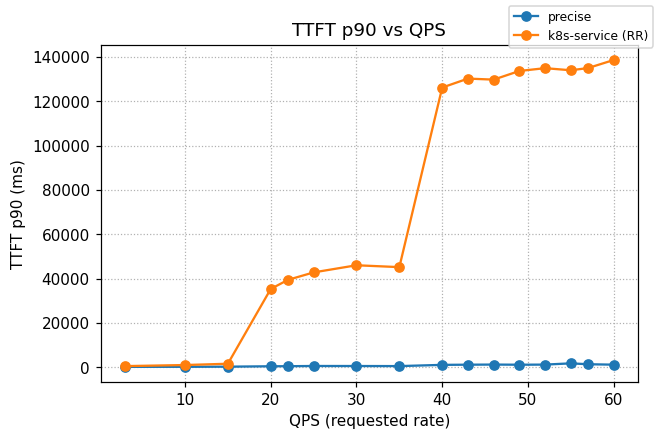
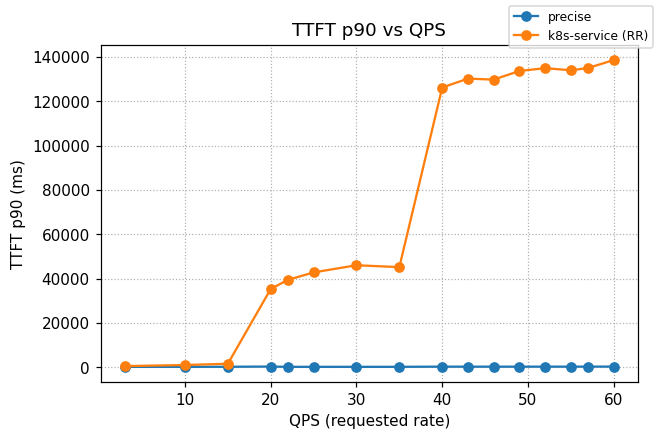
feat(precise-prefix-cache-aware): production-grade standalone defaults + refreshed numbers
Mirror the optimized-baseline guide's data-plane fixes for the precise
standalone deployment:

- Add `inferenceExtension.sidecar.args` (--concurrency 8, --log-level
  warn) and `sidecar.resources` (2-CPU floor, 8-CPU ceiling, 4-16 GiB
  memory) to the values file.
- Extend the existing uds-tokenizer post-renderer to also patch EPP
  container resources (4-CPU req, 8-16 GiB memory) — the chart at
  v1.5.0 doesn't expose EPP resources via values, leaving the
  container in BestEffort QoS without this. Same kustomize overlay,
  one extra patch file. No new helm post-renderer name to install.

Refresh README's benchmark report against a fresh run on the same 16×
H100 fleet using the production defaults. Saturation rate=60: TTFT
mean 0.601s → 0.214s (-64%), TTFT p90 1.174s → 0.300s (-75%); output
throughput dips slightly (16,620 → 15,733) — the precise scorer
genuinely uses more EPP CPU than approx, and the data-plane gain
shows up entirely in latency tails rather than throughput.

Changed region(s): [[0.3642, 0.7977, 0.9408, 0.8568]]

diff --git a/guides/precise-prefix-cache-aware/README.md b/guides/precise-prefix-cache-aware/README.md
@@ -251,33 +251,33 @@ The benchmark runs on 16× H100 GPUs, distributed across 8 model servers (2 H100
 metrics:
   latency:
     request_latency:
-      mean: 56.04
-      p50:  56.43
-      p90:  63.64
-      p99:  66.38
+      mean: 55.91
+      p50:  55.64
+      p90:  64.51
+      p99:  71.05
       units: s
     time_to_first_token:
-      mean: 0.601
-      p50:  0.511
-      p90:  1.174
-      p99:  1.768
+      mean: 0.214
+      p50:  0.205
+      p90:  0.300
+      p99:  0.442
       units: s
     time_per_output_token:
-      mean: 0.0554
-      p50:  0.0557
-      p90:  0.0627
-      p99:  0.0655
+      mean: 0.0557
+      p50:  0.0554
+      p90:  0.0642
+      p99:  0.0708
       units: s/token
     inter_token_latency:
-      mean: 0.0554
-      p50:  0.0368
-      p90:  0.1150
-      p99:  0.2217
+      mean: 0.0557
+      p50:  0.0486
+      p90:  0.0653
+      p99:  0.1184
       units: s/token
   throughput:
-    requests_per_sec:      16.43
-    output_tokens_per_sec: 16620.3
-    total_tokens_per_sec:  141117.1
+    requests_per_sec:      15.72
+    output_tokens_per_sec: 15733.2
+    total_tokens_per_sec:  134920.8
 ```
 
 </details>
@@ -288,26 +288,27 @@ Graphs below compare the precise path to a stock Kubernetes Service that round-r
 
 <img src="./benchmark-results/throughput_vs_qps.png" width="900" alt="Throughput vs QPS">
 <img src="./benchmark-results/latency_vs_qps.png" width="900" alt="Latency vs QPS">
+<img src="./benchmark-results/ttft_p90_vs_qps.png" width="900" alt="TTFT p90 vs QPS">
 
 Summary across the full ladder (rates 3 → 60):
 
 | Metric              | k8s service (RR) | llm-d Precise | Δ% vs k8s |
 | :------------------ | :--------------- | :------------ | :-------- |
-| Output tokens/sec   | 5,722            | 12,931        | +126.0%   |
-| Requests/sec        | 35.87            | 36.30         | +1.2%     |
-| TTFT mean (s)       | 58.10            | 0.529         | −99.09%   |
-| TTFT p90 (s)        | 107.43           | 1.060         | −99.01%   |
+| Output tokens/sec   | 5,722            | 12,598        | +120.2%   |
+| Requests/sec        | 35.87            | 36.01         | +0.4%     |
+| TTFT mean (s)       | 58.10            | 0.247         | −99.57%   |
+| TTFT p90 (s)        | 107.43           | 0.262         | −99.76%   |
 | ITL mean (ms)       | 44.0             | 47.0          | +6.8%     |
 
 Saturation stage `rate=60`:
 
 | Metric              | k8s service (RR) | llm-d Precise | Δ% vs k8s |
 | :------------------ | :--------------- | :------------ | :-------- |
-| Output tokens/sec   | 6,551            | 16,620        | +153.7%   |
-| Requests/sec        | 60.41            | 58.09         | −3.8%     |
-| TTFT mean (s)       | 75.59            | 0.601         | −99.20%   |
-| TTFT p90 (s)        | 138.66           | 1.174         | −99.15%   |
-| ITL mean (ms)       | 45.0             | 55.4          | +23.1%    |
+| Output tokens/sec   | 6,551            | 15,733        | +140.2%   |
+| Requests/sec        | 60.41            | 58.87         | −2.5%     |
+| TTFT mean (s)       | 75.59            | 0.214         | −99.72%   |
+| TTFT p90 (s)        | 138.66           | 0.300         | −99.78%   |
+| ITL mean (ms)       | 45.0             | 55.7          | +23.8%    |
 
 <details>
 <summary><b><i>Click</i></b> to view the per-rate breakdown across the full ladder</summary>
@@ -316,21 +317,21 @@ Output tokens/sec — higher is better; TTFT in seconds — lower is better.
 
 | Rate | k8s Output | llm-d Output | k8s TTFT mean | llm-d TTFT mean | k8s TTFT p90 | llm-d TTFT p90 |
 | ---: | ---------: | -----------: | ------------: | --------------: | -----------: | -------------: |
-|  3   | 1,797      | 1,898        | 0.415         | 0.158           | 0.522        | 0.191          |
-| 10   | 4,215      | 5,711        | 0.630         | 0.159           | 1.014        | 0.213          |
-| 15   | 5,381      | 7,095        | 0.881         | 0.181           | 1.593        | 0.269          |
-| 20   | 6,205      | 10,997       | 18.103        | 0.294           | 35.344       | 0.454          |
-| 22   | 5,517      | 11,766       | 20.171        | 0.281           | 39.436       | 0.481          |
-| 25   | 5,965      | 12,378       | 21.842        | 0.323           | 42.813       | 0.578          |
-| 30   | 5,702      | 13,293       | 24.597        | 0.291           | 46.036       | 0.565          |
-| 35   | 5,890      | 14,001       | 24.162        | 0.280           | 45.190       | 0.529          |
-| 40   | 6,336      | 16,054       | 68.673        | 0.564           | 126.238      | 1.085          |
-| 43   | 6,588      | 15,854       | 72.429        | 0.630           | 130.275      | 1.166          |
-| 46   | 6,459      | 15,928       | 70.084        | 0.601           | 129.810      | 1.219          |
-| 49   | 6,265      | 16,367       | 70.659        | 0.594           | 133.718      | 1.153          |
-| 52   | 6,303      | 16,214       | 74.326        | 0.600           | 134.981      | 1.203          |
-| 55   | 6,290      | 16,357       | 72.564        | 0.724           | 134.034      | 1.772          |
-| 57   | 6,089      | 16,369       | 72.329        | 0.637           | 135.023      | 1.369          |
-| 60   | 6,551      | 16,620       | 75.586        | 0.601           | 138.663      | 1.174          |
+|  3   | 1,797      | 1,707        | 0.415         | 0.155           | 0.522        | 0.187          |
+| 10   | 4,215      | 4,904        | 0.630         | 0.150           | 1.014        | 0.199          |
+| 15   | 5,381      | 6,887        | 0.881         | 0.155           | 1.593        | 0.225          |
+| 20   | 6,205      | 11,224       | 18.103        | 0.206           | 35.344       | 0.320          |
+| 22   | 5,517      | 11,980       | 20.171        | 0.152           | 39.436       | 0.191          |
+| 25   | 5,965      | 12,548       | 21.842        | 0.158           | 42.813       | 0.200          |
+| 30   | 5,702      | 13,507       | 24.597        | 0.155           | 46.036       | 0.193          |
+| 35   | 5,890      | 13,803       | 24.162        | 0.157           | 45.190       | 0.202          |
+| 40   | 6,336      | 15,593       | 68.673        | 0.494           | 126.238      | 0.272          |
+| 43   | 6,588      | 15,612       | 72.429        | 0.422           | 130.275      | 0.265          |
+| 46   | 6,459      | 15,462       | 70.084        | 0.257           | 129.810      | 0.273          |
+| 49   | 6,265      | 15,607       | 70.659        | 0.200           | 133.718      | 0.267          |
+| 52   | 6,303      | 15,728       | 74.326        | 0.208           | 134.981      | 0.279          |
+| 55   | 6,290      | 15,612       | 72.564        | 0.199           | 134.034      | 0.272          |
+| 57   | 6,089      | 15,667       | 72.329        | 0.211           | 135.023      | 0.293          |
+| 60   | 6,551      | 15,733       | 75.586        | 0.214           | 138.663      | 0.300          |
 
 </details>
